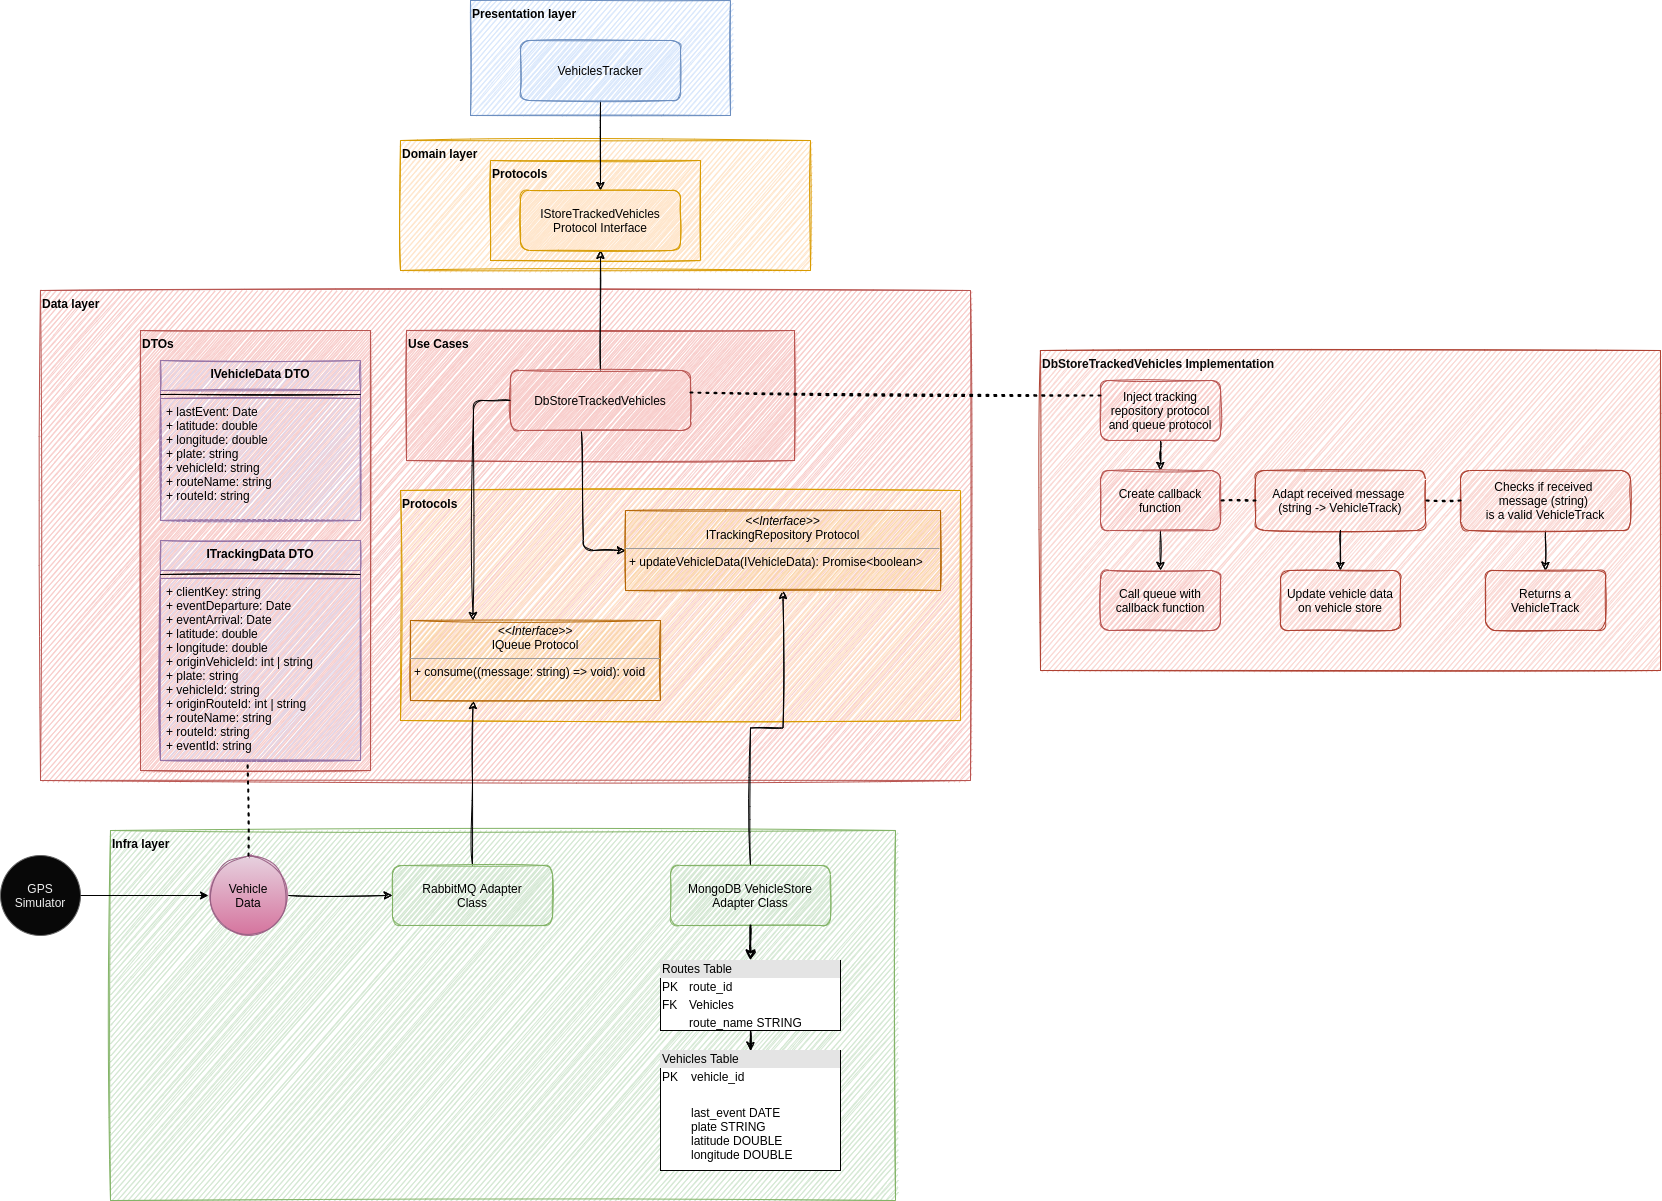
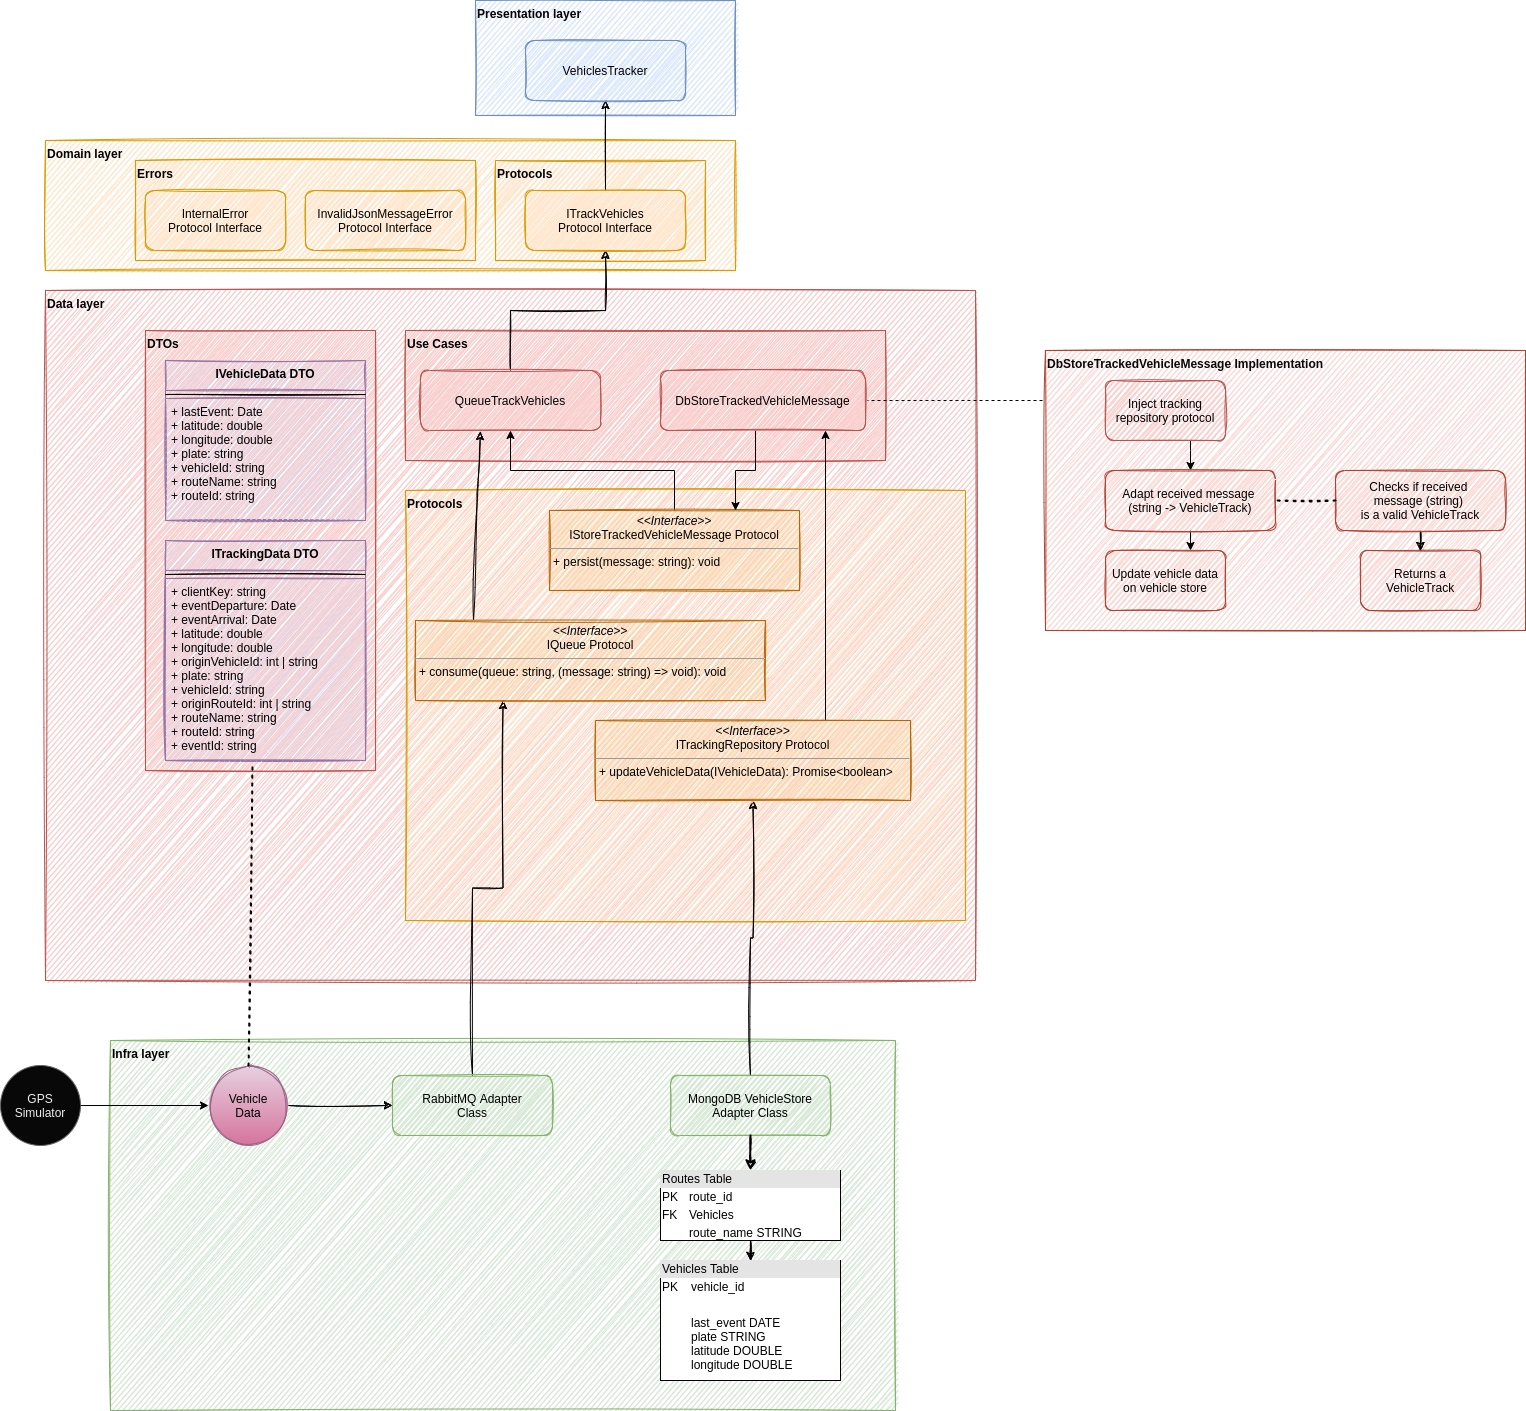
refactor: change track message callback to an injected class

diff --git a/tracking-receiver/src/data/use-cases/queue-track-vehicles.spec.ts b/tracking-receiver/src/data/use-cases/queue-track-vehicles.spec.ts
@@ -1,0 +1,50 @@
+/* eslint-disable max-classes-per-file */
+import { IStoreTrackedVehicleMessage } from '../protocols/store-tracked-vehicle-message.protocols';
+import { IQueue } from '../protocols/queue.protocols';
+import { QueueTrackVehicles } from './queue-track-vehicles';
+
+interface ISutTypes {
+  sut: QueueTrackVehicles;
+  queueNameStub: string;
+  queueAdapterStub: IQueue;
+  persistTrackedVehicleStub: IStoreTrackedVehicleMessage;
+}
+
+const makeQueueStub = (): IQueue => {
+  class QueueStub implements IQueue {
+    // eslint-disable-next-line class-methods-use-this
+    async consume(queueName: string, callback: (message: string) => Promise<void>): Promise<void> {
+      const mockJsonReturn = JSON.stringify({ mock: true });
+      await callback(mockJsonReturn);
+    }
+  }
+  return new QueueStub();
+};
+
+const makePersistTrackedVehicleStub = (): IStoreTrackedVehicleMessage => {
+  class PersistTrackedVehicleStub implements IStoreTrackedVehicleMessage {
+    // eslint-disable-next-line class-methods-use-this, @typescript-eslint/no-unused-vars
+    async persist(message: string): Promise<void> {
+      // eslint-disable-next-line @typescript-eslint/no-unused-vars
+      const mock = true;
+    }
+  }
+  return new PersistTrackedVehicleStub();
+};
+
+const makeSut = (): ISutTypes => {
+  const queueNameStub = 'mock_queue_name';
+  const queueAdapterStub = makeQueueStub();
+  const persistTrackedVehicleStub = makePersistTrackedVehicleStub();
+  const sut = new QueueTrackVehicles(queueNameStub, queueAdapterStub, persistTrackedVehicleStub);
+  return { sut, queueNameStub, queueAdapterStub, persistTrackedVehicleStub };
+};
+
+describe('QueueTrackVehicles Test Suite', () => {
+  it('Should consume queue with correct callback', async () => {
+    const { sut, queueNameStub, queueAdapterStub, persistTrackedVehicleStub } = makeSut();
+    const spyConsume = jest.spyOn(queueAdapterStub, 'consume');
+    await sut.track();
+    expect(spyConsume).toHaveBeenCalledWith(queueNameStub, persistTrackedVehicleStub.persist);
+  });
+});

diff --git a/tracking-receiver/src/main/index.ts b/tracking-receiver/src/main/index.ts
@@ -1,14 +1,16 @@
-import { DbStoreTrackedVehicles } from '../data/use-cases/db-store-tracked-vehicles';
+import { DbStoreTrackedVehicleMessage } from '../data/use-cases/db-store-tracked-vehicle-message';
+import { QueueTrackVehicles } from '../data/use-cases/queue-track-vehicles';
 import { RabbitMQAdapter } from '../infra/queue/rabbitmq/rabbitmq-adapter';
 import { MongoTrackingRepository } from '../infra/tracking-repository/mongodb/tracking-repository';
 import { VehiclesTracker } from '../presentation/vehicles-tracker';
 
 const queueName = 'trackingQueue';
-const rabbitmqAdapter = new RabbitMQAdapter();
-const trackingRepo = new MongoTrackingRepository();
+const queueAdapter = new RabbitMQAdapter();
+const trackDataRepository = new MongoTrackingRepository();
 
-const dbStoreTrackedVehicles = new DbStoreTrackedVehicles(queueName, rabbitmqAdapter, trackingRepo);
-const vehiclesTracker = new VehiclesTracker(dbStoreTrackedVehicles);
+const storeTrackedVehicles = new DbStoreTrackedVehicleMessage(trackDataRepository);
+const trackVehicles = new QueueTrackVehicles(queueName, queueAdapter, storeTrackedVehicles);
+const vehiclesTracker = new VehiclesTracker(trackVehicles);
 
 console.log('starting up...');
 vehiclesTracker.track().then(() => {

diff --git a/tracking-receiver/src/data/use-cases/db-store-tracked-vehicle-message.ts b/tracking-receiver/src/data/use-cases/db-store-tracked-vehicle-message.ts
@@ -1,0 +1,24 @@
+import { IStoreTrackedVehicleMessage } from '../protocols/store-tracked-vehicle-message.protocols';
+import { ITrackingData } from '../dtos/tracking-data.dtos';
+import { IVehicleData } from '../dtos/vehicle-data.dtos';
+import { adaptTrackingData } from '../helpers/adapt-tracking-data';
+import { ITrackingRepository } from '../protocols/tracking-repository.protocols';
+
+export class DbStoreTrackedVehicleMessage implements IStoreTrackedVehicleMessage {
+  constructor(private readonly _trackingRepository: ITrackingRepository) {}
+
+  async persist(trackedMessage: string): Promise<void> {
+    const trackedData: ITrackingData = adaptTrackingData(trackedMessage);
+    const { eventDeparture, latitude, longitude, plate, vehicleId, routeName, routeId } = trackedData;
+    const vehicleData: IVehicleData = {
+      lastEvent: eventDeparture,
+      latitude,
+      longitude,
+      plate,
+      vehicleId,
+      routeName,
+      routeId,
+    };
+    await this._trackingRepository.updateVehicleData(vehicleData);
+  }
+}

diff --git a/tracking-receiver/src/presentation/vehicles-tracker.spec.ts b/tracking-receiver/src/presentation/vehicles-tracker.spec.ts
@@ -1,13 +1,13 @@
-import { IStoreTrackedVehicles } from '../domain/protocols/store-tracked-vehicles.protocols';
+import { ITrackVehicles } from '../domain/protocols/track-vehicles.protocols';
 import { VehiclesTracker } from './vehicles-tracker';
 
 interface ISutTypes {
   sut: VehiclesTracker;
-  vehiclesTrackerStub: IStoreTrackedVehicles;
+  vehiclesTrackerStub: ITrackVehicles;
 }
 
-const makeVehiclesTrackerStub = (): IStoreTrackedVehicles => {
-  class VehiclesTrackerStub implements IStoreTrackedVehicles {
+const makeVehiclesTrackerStub = (): ITrackVehicles => {
+  class VehiclesTrackerStub implements ITrackVehicles {
     // eslint-disable-next-line class-methods-use-this
     async track(): Promise<void> {
       // eslint-disable-next-line @typescript-eslint/no-unused-vars

diff --git a/tracking-receiver/src/data/use-cases/queue-track-vehicles.ts b/tracking-receiver/src/data/use-cases/queue-track-vehicles.ts
@@ -1,0 +1,15 @@
+import { ITrackVehicles } from '../../domain/protocols/track-vehicles.protocols';
+import { IStoreTrackedVehicleMessage } from '../protocols/store-tracked-vehicle-message.protocols';
+import { IQueue } from '../protocols/queue.protocols';
+
+export class QueueTrackVehicles implements ITrackVehicles {
+  constructor(
+    private readonly _queueName: string,
+    private readonly _queue: IQueue,
+    private readonly _callback: IStoreTrackedVehicleMessage,
+  ) {}
+
+  async track(): Promise<void> {
+    await this._queue.consume(this._queueName, this._callback.persist);
+  }
+}

diff --git a/tracking-receiver/src/data/helpers/adapt-tracking-data.ts b/tracking-receiver/src/data/helpers/adapt-tracking-data.ts
@@ -1,5 +1,5 @@
-import { InternalError } from '../../domain/protocols/errors/internal.errors';
-import { InvalidJsonMessageError } from '../../domain/protocols/errors/invalid-json-message.errors';
+import { InternalError } from '../../domain/errors/internal.errors';
+import { InvalidJsonMessageError } from '../../domain/errors/invalid-json-message.errors';
 import { ITrackingData } from '../dtos/tracking-data.dtos';
 
 export const adaptTrackingData = (trackedMessage: string): ITrackingData => {

diff --git a/tracking-receiver/src/data/helpers/adapt-tracking-data.spec.ts b/tracking-receiver/src/data/helpers/adapt-tracking-data.spec.ts
@@ -1,5 +1,5 @@
-import { InternalError } from '../../domain/protocols/errors/internal.errors';
-import { InvalidJsonMessageError } from '../../domain/protocols/errors/invalid-json-message.errors';
+import { InternalError } from '../../domain/errors/internal.errors';
+import { InvalidJsonMessageError } from '../../domain/errors/invalid-json-message.errors';
 import { adaptTrackingData as sut } from './adapt-tracking-data';
 
 describe('Tracked Data Message Adapter Test Suite', () => {

diff --git a/tracking-receiver/src/presentation/vehicles-tracker.ts b/tracking-receiver/src/presentation/vehicles-tracker.ts
@@ -1,7 +1,7 @@
-import { IStoreTrackedVehicles } from '../domain/protocols/store-tracked-vehicles.protocols';
+import { ITrackVehicles } from '../domain/protocols/track-vehicles.protocols';
 
 export class VehiclesTracker {
-  constructor(private readonly _vehiclesTracker: IStoreTrackedVehicles) {}
+  constructor(private readonly _vehiclesTracker: ITrackVehicles) {}
 
   async track(): Promise<void> {
     try {

diff --git a/tracking-receiver/src/data/protocols/store-tracked-vehicle-message.protocols.ts b/tracking-receiver/src/data/protocols/store-tracked-vehicle-message.protocols.ts
@@ -1,0 +1,3 @@
+export interface IStoreTrackedVehicleMessage {
+  persist(trackedMessage: string): Promise<void>;
+}

diff --git a/tracking-receiver/src/domain/protocols/track-vehicles.protocols.ts b/tracking-receiver/src/domain/protocols/track-vehicles.protocols.ts
@@ -1,0 +1,3 @@
+export interface ITrackVehicles {
+  track(): Promise<void>;
+}
